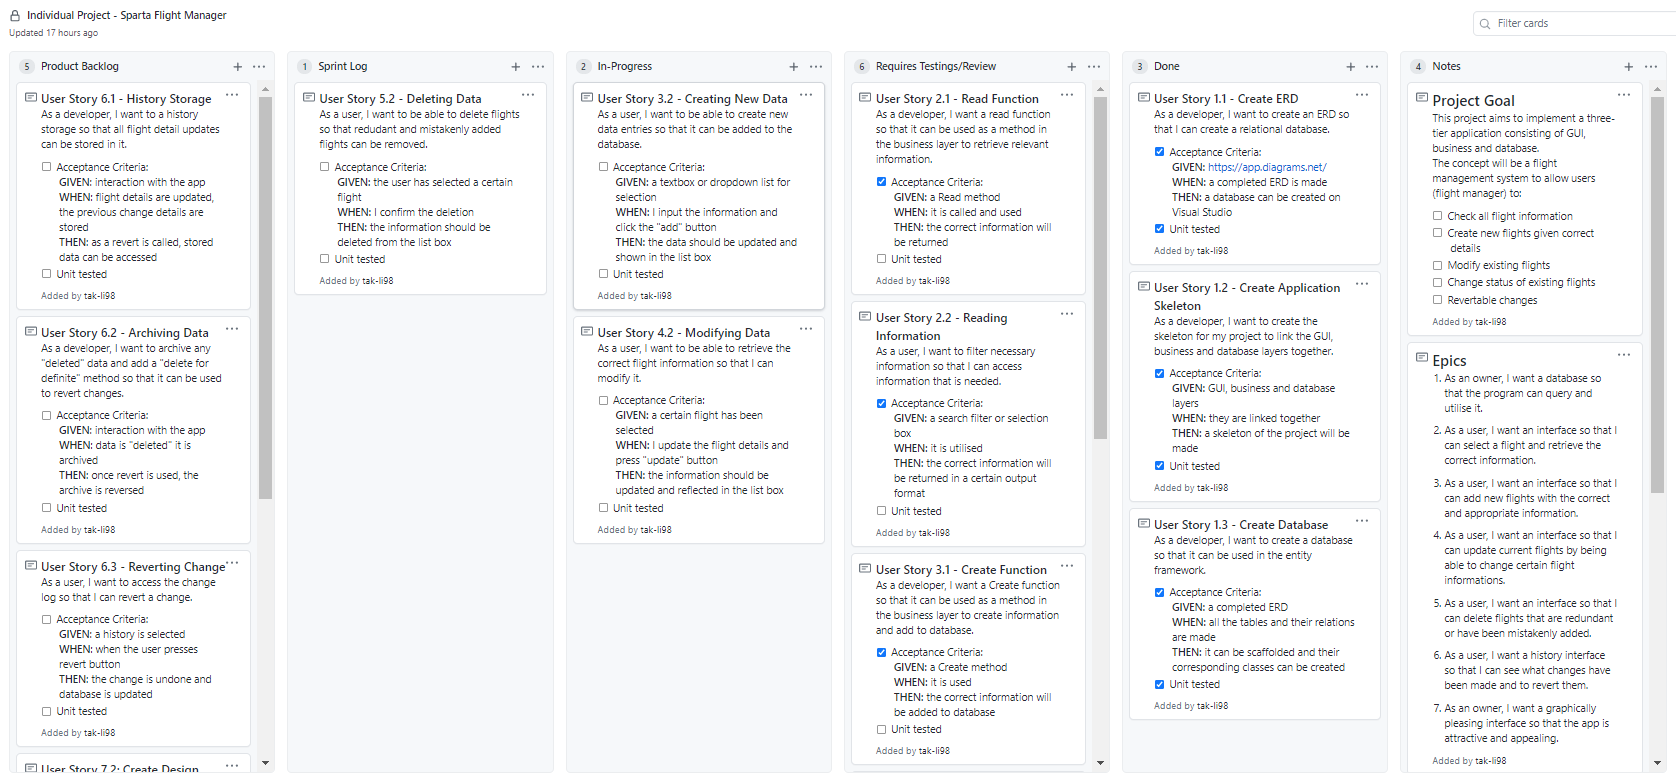
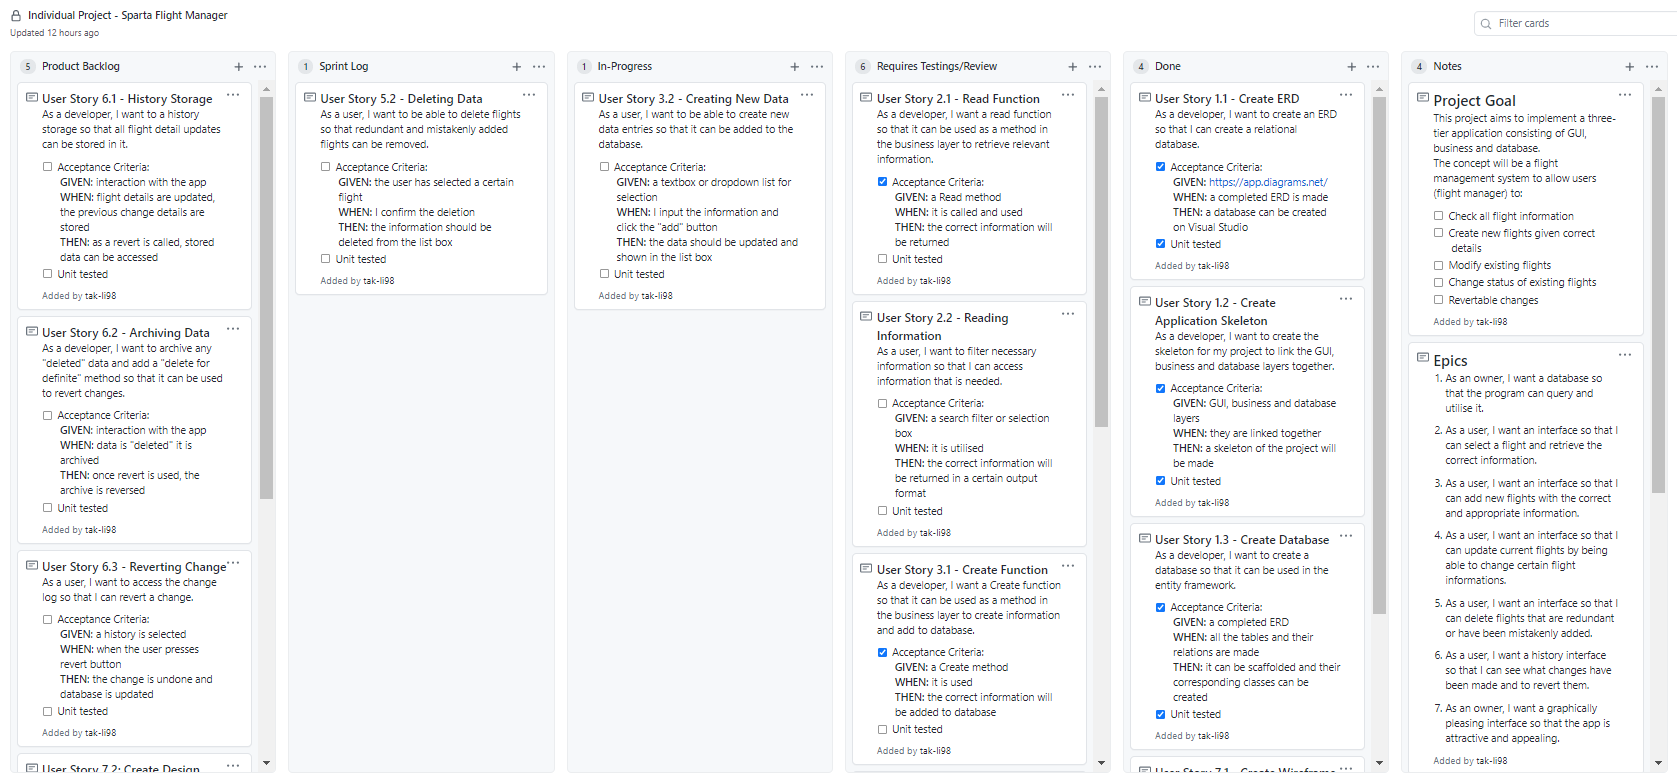
added sprint 4 to progress (half done)

diff --git a/SpartaFlightManager/GUI/FlightDetailsWindow.xaml b/SpartaFlightManager/GUI/FlightDetailsWindow.xaml
@@ -60,7 +60,7 @@
         <TextBox x:Name="departureTxt" Focusable="False" Grid.ColumnSpan="3" IsReadOnly="True" Grid.Column="2" HorizontalAlignment="Left" Width="200" Height="40" Grid.Row="4" VerticalContentAlignment="Center" HorizontalContentAlignment="Left" TextWrapping="Wrap" VerticalAlignment="Center" />
         <TextBox x:Name="arrivalTxt" Focusable="False" Grid.ColumnSpan="3" IsReadOnly="True" Grid.Column="5" HorizontalAlignment="Center" Width="200" Height="40" Grid.Row="4" VerticalContentAlignment="Center" HorizontalContentAlignment="Left" TextWrapping="Wrap" VerticalAlignment="Center" />
         <TextBox x:Name="regionTxt" Focusable="False" Grid.ColumnSpan="3" IsReadOnly="True" Grid.Column="2" HorizontalAlignment="Left" Width="200" Height="40" Grid.Row="5" VerticalContentAlignment="Center" HorizontalContentAlignment="Left" TextWrapping="Wrap" VerticalAlignment="Center" />
-        <TextBox x:Name="planeCapacityTxt" IsReadOnly="True" Grid.ColumnSpan="3" Grid.Column="5" HorizontalAlignment="Center" Width="200" Height="40" Grid.Row="7" VerticalContentAlignment="Center" HorizontalContentAlignment="Left" TextWrapping="Wrap" VerticalAlignment="Center" />
+        <TextBox x:Name="planeCapacityTxt"  IsReadOnly="True" Grid.ColumnSpan="3" Grid.Column="5" HorizontalAlignment="Center" Width="200" Height="40" Grid.Row="7" VerticalContentAlignment="Center" HorizontalContentAlignment="Left" TextWrapping="Wrap" VerticalAlignment="Center" />
         <TextBox x:Name="passengerNumTxt" PreviewTextInput="PreviewTextInput" IsReadOnly="True" Grid.ColumnSpan="3" Grid.Column="5" HorizontalAlignment="Center" Width="200" Height="40" Grid.Row="6" VerticalContentAlignment="Center" HorizontalContentAlignment="Left" TextWrapping="Wrap" VerticalAlignment="Center" />               
         <ComboBox x:Name="airlineCombo" IsEditable="False" IsHitTestVisible="False" Grid.ColumnSpan="2" Grid.Column="2" HorizontalAlignment="Left"  Grid.Row="7" VerticalAlignment="Center" Width="180"/>
         <ComboBox x:Name="pilotCombo" IsEditable="False" IsHitTestVisible="False" Grid.ColumnSpan="2" Grid.Column="2" HorizontalAlignment="Left" Grid.Row="6" VerticalAlignment="Center" Width="180"/>

diff --git a/SpartaFlightManager/GUI/AddFlightWindow.xaml b/SpartaFlightManager/GUI/AddFlightWindow.xaml
@@ -63,7 +63,7 @@
         <Label x:Name="durationLbl" Content="Flight Duration (hr)" Grid.Column="4" Grid.ColumnSpan="2" HorizontalAlignment="Left" Grid.Row="5" VerticalAlignment="Center"/>
         <Slider x:Name="durationSlider" Value="40" Grid.Column="5" Width="200" VerticalAlignment="Center" Grid.ColumnSpan="3" Grid.Row="5" Minimum="0" Maximum="24" Style="{StaticResource MaterialDesignDiscreteSlider}" TickFrequency="{Binding DiscreteHorizontal.TickFrequency}" TickPlacement="BottomRight" Foreground="Black" ValueChanged="Slider_ValueChanged" />
         <TextBox x:Name="planeCapacityTxt" IsReadOnly="True" Focusable="False" ToolTip="Please pick a plane model." Grid.ColumnSpan="3" Grid.Column="5" HorizontalAlignment="Center" Width="200" Height="40" Grid.Row="7" VerticalContentAlignment="Center" HorizontalContentAlignment="Left" TextWrapping="Wrap" VerticalAlignment="Center" />
-        <TextBox x:Name="passengerNumTxt" IsReadOnly="True" ToolTip="Please pick a plane model first." Grid.ColumnSpan="3" Grid.Column="5" HorizontalAlignment="Center" Width="200" Height="40" Grid.Row="6" VerticalContentAlignment="Center" HorizontalContentAlignment="Left" TextWrapping="Wrap" VerticalAlignment="Center" TextChanged="passengerNumTxt_TextChanged" />
+        <TextBox x:Name="passengerNumTxt" PreviewTextInput="PreviewTextInput" IsReadOnly="True" ToolTip="Please pick a plane model first." Grid.ColumnSpan="3" Grid.Column="5" HorizontalAlignment="Center" Width="200" Height="40" Grid.Row="6" VerticalContentAlignment="Center" HorizontalContentAlignment="Left" TextWrapping="Wrap" VerticalAlignment="Center" TextChanged="passengerNumTxt_TextChanged" />
         <!--<TextBox x:Name="flightDurationTxt"  Grid.ColumnSpan="3" Grid.Column="5" HorizontalAlignment="Center" Width="200" Height="40" Grid.Row="5" VerticalContentAlignment="Center" HorizontalContentAlignment="Left" TextWrapping="Wrap" VerticalAlignment="Center" />-->
         
         <ComboBox x:Name="arrivalCombo"  Grid.ColumnSpan="2" Grid.Column="2" HorizontalAlignment="Left"  Grid.Row="5" VerticalAlignment="Center" Width="180" SelectionChanged="arrivalCombo_SelectionChanged"/>

diff --git a/SpartaFlightManager/GUI/AddFlightWindow.xaml.cs b/SpartaFlightManager/GUI/AddFlightWindow.xaml.cs
@@ -11,6 +11,7 @@ using System.Windows.Input;
 using System.Windows.Media;
 using System.Windows.Media.Imaging;
 using System.Windows.Shapes;
+using System.Text.RegularExpressions;
 using Manager;
 
 namespace GUI
@@ -239,6 +240,16 @@ namespace GUI
         private void minimiseBtn_Click(object sender, RoutedEventArgs e)
         {
             this.WindowState = WindowState.Minimized;
+        }
+
+        private static readonly Regex _regex = new Regex("[^0-9]");
+        private static bool IsTextAllowed(string text)
+        {
+            return !_regex.IsMatch(text);
+        }
+        private void PreviewTextInput(object sender, TextCompositionEventArgs e)
+        {
+            e.Handled = !IsTextAllowed(e.Text);
         }
     }
 }

diff --git a/SpartaFlightManager/GUI/FlightDetailsWindow.xaml.cs b/SpartaFlightManager/GUI/FlightDetailsWindow.xaml.cs
@@ -222,5 +222,6 @@ namespace GUI
         {
             e.Handled = !IsTextAllowed(e.Text);
         }
+
     }
 }

diff --git a/ProjectProgress.md b/ProjectProgress.md
@@ -236,7 +236,7 @@ During this sprint, a numerous of tasks were completed, these included:
 
 #### Sprint End Board:
 
-![BoardDay3End](BoardDay3End.png)
+![BoardDay3End](Images/BoardDay3End.png)
 
 #### Sprint Review
 
@@ -263,6 +263,22 @@ During this sprint, a numerous of tasks were completed, these included:
 ### <u>Sprint 4</u>
 
 #### Sprint Goal
+
+| User Story ID | Title               | Description                                                  |
+| ------------- | ------------------- | ------------------------------------------------------------ |
+| 2.2           | Reading Information | As a user, I want to filter necessary information so that I can access information that is needed. |
+| 3.2           | Creating New Data   | As a user, I want to be able to create new data entries so that it can be added to the database. |
+| 5.2           | Deleting Data       | As a user, I want to be able to delete flights so that redundant and mistakenly added flights can be removed |
+
+
+
+#### Sprint Start Board:
+
+![BoardDay4Start](Images/BoardDay4End.png)
+
+#### Sprint End Board:
+
+![BoardDay4End](Images/BoardDay4End.png)
 
 #### Sprint Review
 
